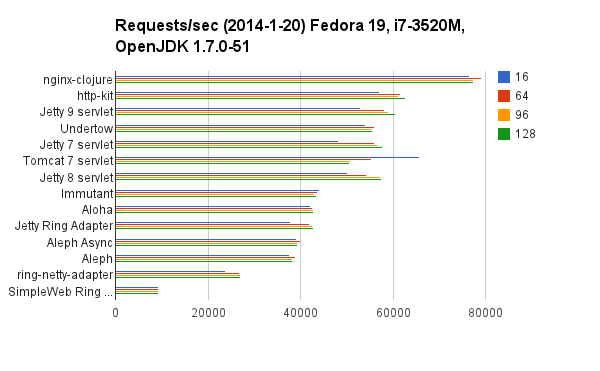
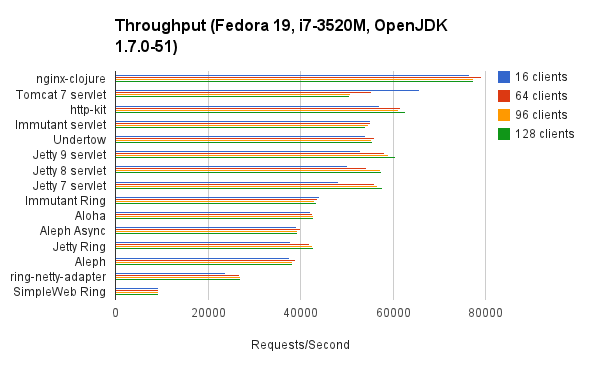
Update cpuinfo and include Immutant servlet perf in graph

diff --git a/README.md b/README.md
@@ -27,7 +27,7 @@ This is a **collaborative repo**. Please see [here](#contact--contribution) for 
 
 ### 1.2 On Fedora 19 + i7-3520M
 
-  * Intel Core i5 3520M
+  * 2.9GHz Intel Core i7-3520M with 16GB 1600MHz DDR3
   * Clojure 1.5.1 on OpenJDK 1.7.0-51
   * Chart available on [Google Drive](http://goo.gl/2FtAFy).
 
